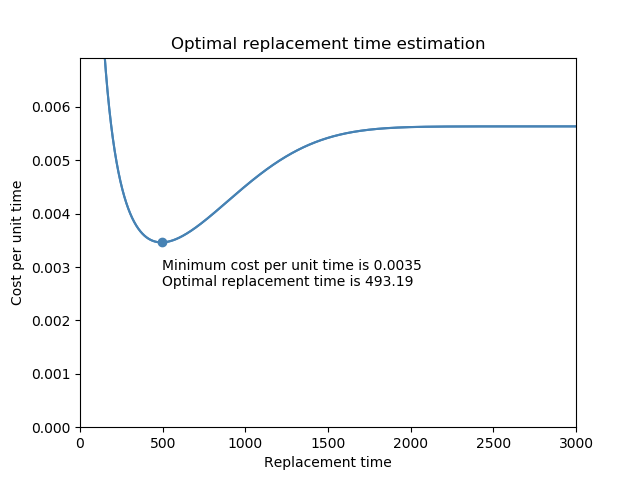
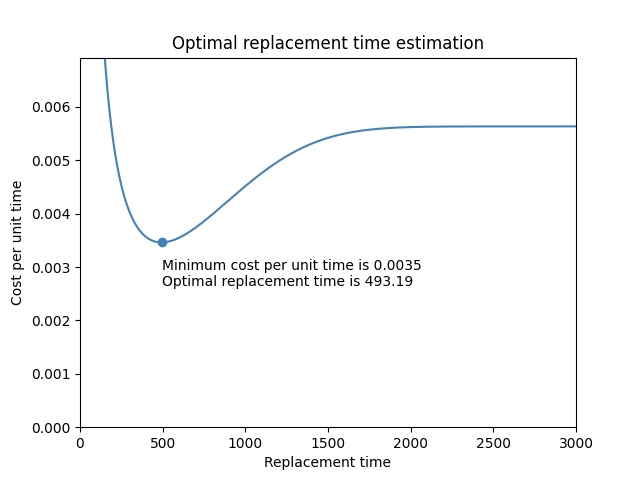
updating optimal_replacement_time and docs

diff --git a/reliability/Repairable_systems.py b/reliability/Repairable_systems.py
@@ -22,6 +22,7 @@ import pandas as pd
 import scipy.stats as ss
 from scipy.optimize import curve_fit
 from reliability.Utils import colorprint, round_to_decimals
+from matplotlib.axes import SubplotBase
 
 
 class reliability_growth:
@@ -160,8 +161,16 @@ class optimal_replacement_time:
         The restoration factor. Must be 0 or 1. Use q=1 for Power Law NHPP
         (as good as old) or q=0 for HPP (as good as new). Default is q=0 (as
         good as new).
-    show_plot : bool, optional
-        If True the plot will be produced. Default is True.
+    show_time_plot : bool, axes, optional
+        If True the plot of replacment time vs cost per unit time will be
+        produced in a new figure. If an axes subclass is passed then the plot
+        be generated in that axes. If False then no plot will be generated.
+        Default is True.
+    show_ratio_plot : bool, axes, optional
+        If True the plot of cost ratio vs replacement interval will be
+        produced in a new figure. If an axes subclass is passed then the plot
+        be generated in that axes. If False then no plot will be generated.
+        Default is True.
     print_results : bool, optional
         If True the results will be printed to console. Default = True.
     kwargs
@@ -174,11 +183,6 @@ class optimal_replacement_time:
         The optimal replacement time
     min_cost : float
         The minimum cost per unit time
-
-    Notes
-    -----
-    If show_plot is True, the cost vs time plot will be produced. Use plt.show()
-    to show the plot.
     """
 
     def __init__(
@@ -187,7 +191,8 @@ class optimal_replacement_time:
         cost_CM,
         weibull_alpha,
         weibull_beta,
-        show_plot=True,
+        show_time_plot=True,
+        show_ratio_plot=True,
         print_results=True,
         q=0,
         **kwargs
@@ -207,7 +212,7 @@ class optimal_replacement_time:
             )
 
         if q == 1:  # as good as old
-            alpha_multiple = 4  # just used for plot limits
+            alpha_multiple = 4
             t = np.linspace(1, weibull_alpha * alpha_multiple, 100000)
             CPUT = ((cost_PM * (t / weibull_alpha) ** weibull_beta) + cost_CM) / t
             ORT = weibull_alpha * (
@@ -219,15 +224,23 @@ class optimal_replacement_time:
         elif q == 0:  # as good as new
             alpha_multiple = 3
             t = np.linspace(1, weibull_alpha * alpha_multiple, 10000)
-            CPUT = []  # cost per unit time
-            R = lambda x: np.exp(-((x / weibull_alpha) ** weibull_beta))
-            for T in t:
-                SF = np.exp(-((T / weibull_alpha) ** weibull_beta))
-                integral_R, error = integrate.quad(R, 0, T)
-                CPUT.append((cost_PM * SF + cost_CM * (1 - SF)) / integral_R)
-                idx = np.argmin(CPUT)
-                min_cost = CPUT[idx]  # minimum cost per unit time
-                ORT = t[idx]  # optimal replacement time
+
+            # survival function and its integral
+            calc_SF = lambda x: np.exp(-((x / weibull_alpha) ** weibull_beta))
+            integrate_SF = lambda x: integrate.quad(calc_SF, 0, x)[0]
+
+            # vectorize them
+            calc_SFv = np.vectorize(calc_SF)
+            integrate_SFv = np.vectorize(integrate_SF)
+
+            # calculate the SF and intergral at each time
+            sf = calc_SFv(t)
+            integral = integrate_SFv(t)
+
+            CPUT = (cost_PM * sf + cost_CM * (1 - sf)) / integral
+            idx = np.argmin(CPUT)
+            min_cost = CPUT[idx]  # minimum cost per unit time
+            ORT = t[idx]  # optimal replacement time
         else:
             raise ValueError(
                 'q must be 0 or 1. Default is 0. Use 0 for "as good as new" and use 1 for "as good as old".'
@@ -258,7 +271,14 @@ class optimal_replacement_time:
                 ORT_rounded,
             )
 
-        if show_plot is True:
+        if (
+            show_time_plot is True
+            or issubclass(type(show_time_plot), SubplotBase) is True
+        ):
+            if issubclass(type(show_time_plot), SubplotBase) is True:
+                plt.sca(ax=show_time_plot)  # use the axes passed
+            else:
+                plt.figure()  # if no axes is passed, make a new figure
             plt.plot(t, CPUT, color=c, **kwargs)
             plt.plot(ORT, min_cost, "o", color=c)
             text_str = str(
@@ -273,6 +293,65 @@ class optimal_replacement_time:
             plt.title("Optimal replacement time estimation")
             plt.ylim([0, min_cost * 2])
             plt.xlim([0, weibull_alpha * alpha_multiple])
+
+        if (
+            show_ratio_plot is True
+            or issubclass(type(show_ratio_plot), SubplotBase) is True
+        ):
+            if issubclass(type(show_ratio_plot), SubplotBase) is True:
+                plt.sca(ax=show_ratio_plot)  # use the axes passed
+            else:
+                plt.figure()  # if no axes is passed, make a new figure
+            xupper = np.round(cost_CM / cost_PM, 0) * 2
+            CC_CP = np.linspace(1, xupper, 200)  # cost unscheduled / cost preventative
+            CC = CC_CP * cost_PM
+            ORT_array = []
+
+            if q == 1:
+                for _cost_CM in CC:
+                    CPUT = (
+                        (cost_PM * (t / weibull_alpha) ** weibull_beta) + _cost_CM
+                    ) / t
+                    ORT = weibull_alpha * (
+                        (_cost_CM / (cost_PM * (weibull_beta - 1)))
+                        ** (1 / weibull_beta)
+                    )
+                    ORT_array.append(ORT)
+            else:  # q = 0
+                for _cost_CM in CC:
+                    CPUT = (cost_PM * sf + _cost_CM * (1 - sf)) / integral
+                    idx = np.argmin(CPUT)
+                    ORT = t[idx]  # optimal replacement time
+                    ORT_array.append(ORT)
+
+            plt.plot(CC_CP, ORT_array)
+            plt.xlim(0, xupper)
+            plt.ylim(0, self.ORT * 2)
+            plt.scatter(cost_CM / cost_PM, self.ORT)
+            # vertical alignment based on plot increasing or decreasing
+            if ORT_array[50] > ORT_array[40]:
+                va = "top"
+                mult = 0.95
+            else:
+                va = "bottom"
+                mult = 1.05
+            plt.text(
+                s=str(
+                    "$cost_{CM} = $"
+                    + str(cost_CM)
+                    + "\n$cost_{PM} = $"
+                    + str(cost_PM)
+                    + "\nInterval = "
+                    + str(round(self.ORT, 2))
+                ),
+                x=cost_CM / cost_PM * 1.05,
+                y=self.ORT * mult,
+                ha="left",
+                va=va,
+            )
+            plt.xlabel(r"Cost ratio $\left(\frac{CM}{PM}\right)$")
+            plt.ylabel("Replacement Interval")
+            plt.title("Optimal replacement interval\nacross a range of CM costs")
 
 
 class ROCOF:

diff --git a/docs/Changelog.rst b/docs/Changelog.rst
@@ -24,6 +24,7 @@ Version 0.5.7 of `reliability` completes a part of this project that has taken a
 -    Fit_Weibull_Mixture and Fit_Weibull_CR didn't accept kwargs. All kwargs are now passed directly to matplotlib making it possible to change color, label, linestyle, etc on the probability plot of these distributions.
 -    In stress_strength and stress_strength_normal the argument show_distribution_plot has been changed to show_plot. This is done for simplicity and standardisation.
 -    The outputs from all nonparametric functions (.KM, .RA, .NA) are now arrays. Previously these were lists.
+-    Repairable_systems.optimal_replacement_time argument "show_plot" has been changed to "show_time_plot". There is another argument "show_ratio_plot" which has been added. While normally expecting True/False, these arguments will also accept axes subclasses if you want them to plot on a specific axes.
 
 **Bug Fixes**
 
@@ -38,6 +39,7 @@ Version 0.5.7 of `reliability` completes a part of this project that has taken a
 **Other**
 
 -    Improvements to API documentation. This has been a long term work in progress, but is nearly finished.
+-    Speed enhancement (x10) to Repairable_systems.optimal_replacement_time and the addition of a new plot (cost ratio vs replacement interval). Thanks to Ed Burrows for contributing the speed enhancement.
 
 **Version: 0.5.6 --- Released: 7 March 2021**
 '''''''''''''''''''''''''''''''''''''''''''''

diff --git a/docs/Optimal replacement time.rst b/docs/Optimal replacement time.rst
@@ -21,7 +21,6 @@ In the example below, we provide the cost of preventative maintenance (cost_PM),
     import matplotlib.pyplot as plt
     optimal_replacement_time(cost_PM=1, cost_CM=5, weibull_alpha=1000, weibull_beta=2.5,q=0)
     plt.show()
-    # Runtime for this code is approximately 10 seconds due to the speed of the optimisation routine
 
     '''
     Results from optimal_replacement_time:
@@ -31,3 +30,5 @@ In the example below, we provide the cost of preventative maintenance (cost_PM),
     '''
 
 .. image:: images/optimal_replacement_time.png
+
+.. image:: images/optimal_replacement_interval.png
